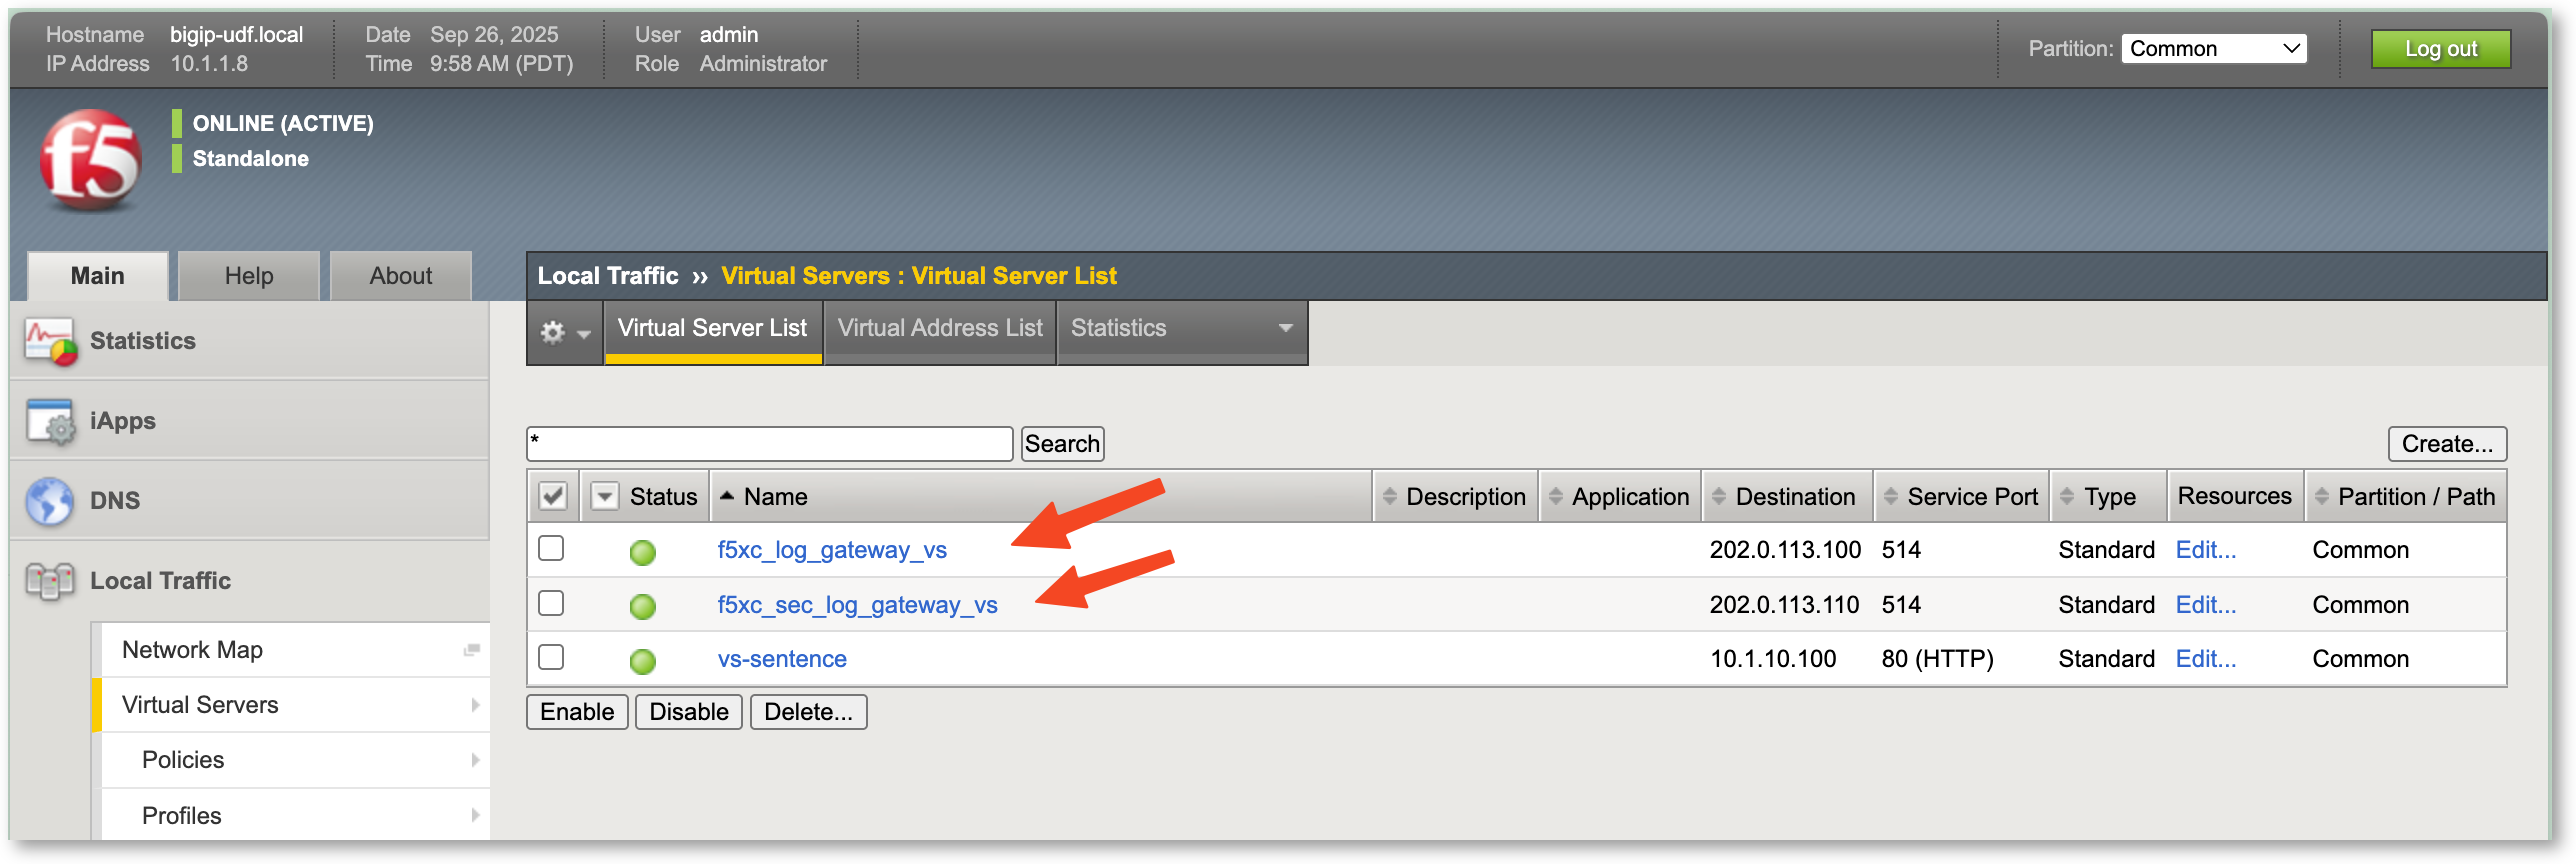
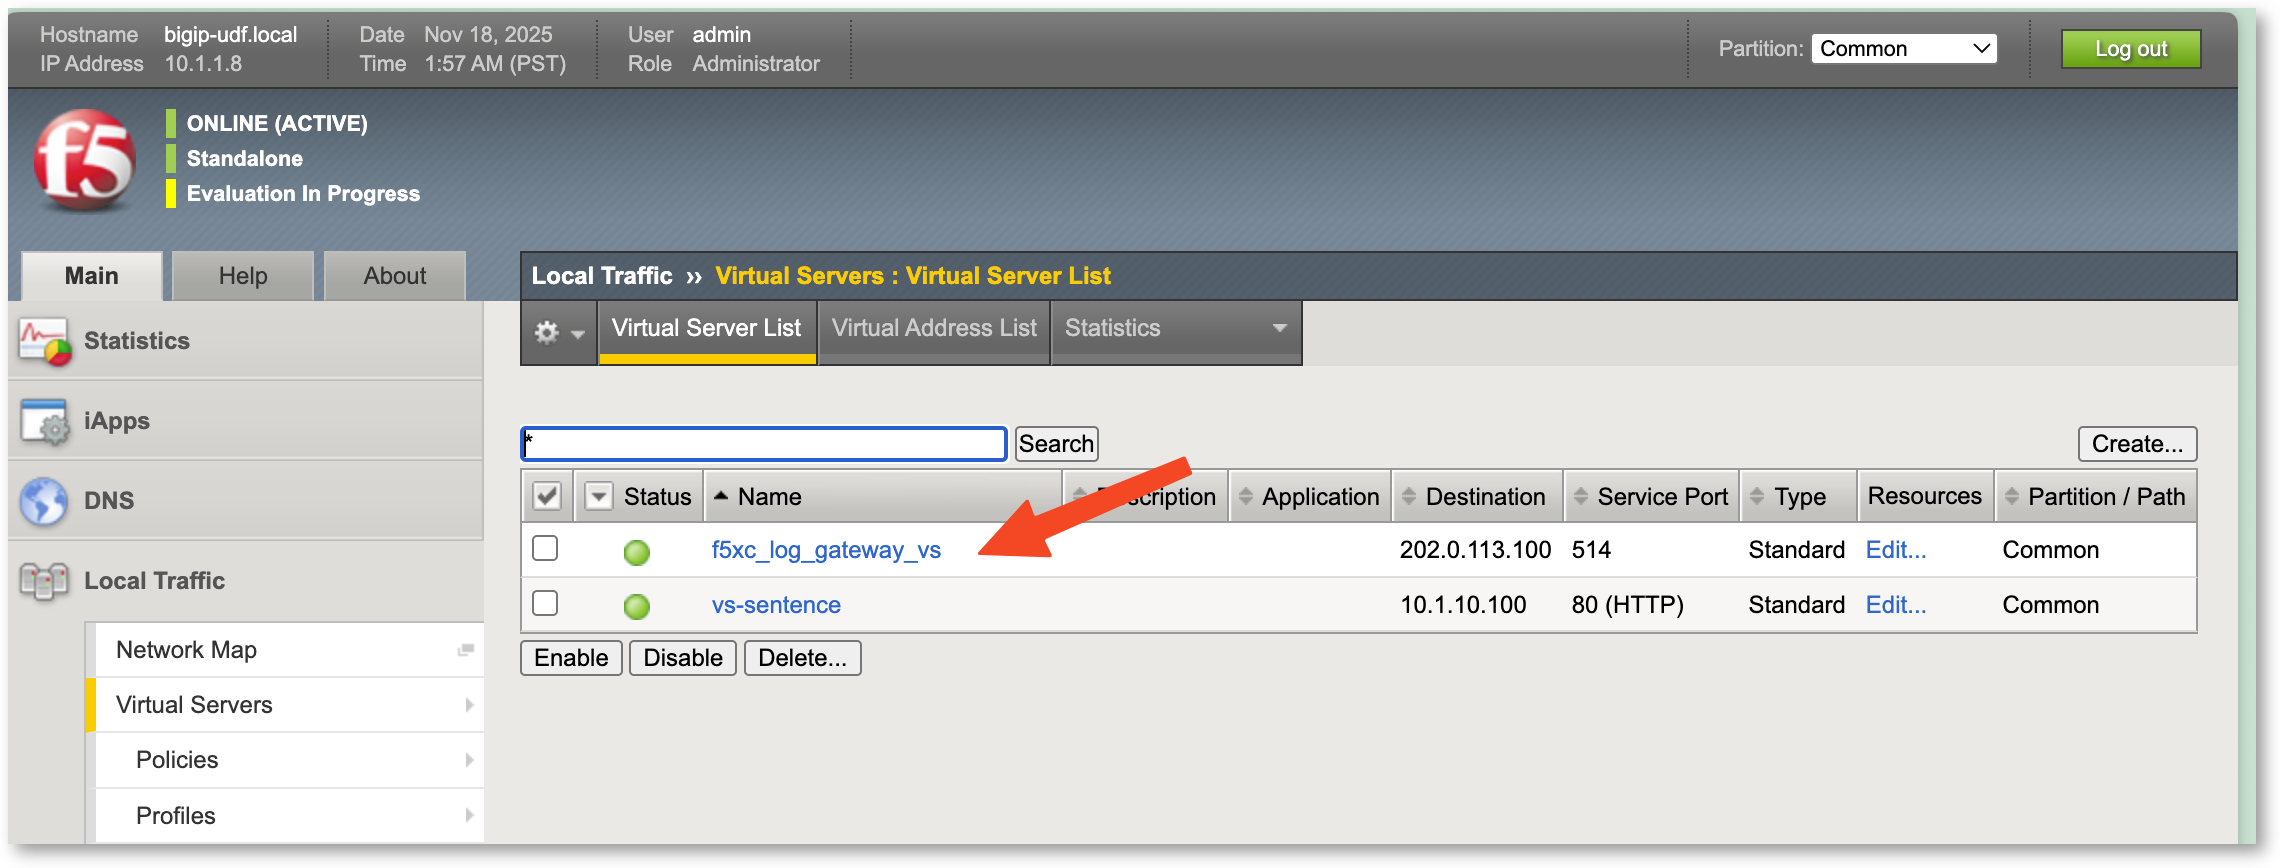
fix lab cbip

Changed region(s): [[0.0, 0.0, 0.9965, 0.9688], [0.0, 0.0312, 0.3737, 0.0938], [0.0, 0.125, 0.1868, 0.25]]

diff --git a/docs/class4/module2/lab5/lab5.rst b/docs/class4/module2/lab5/lab5.rst
@@ -99,13 +99,14 @@ Configure the service discovery so it can find the BIG-IP
    :align: left
 
 * Give a name to the BIG-IP such as ``bigip1``
-* Click Add Item under ``Classic BIG-IP Devices``
 * Configure with the BIG-IP settings
   
   * Management IP: ``10.1.20.8`` <- Self-IP address
+  * Management Port: ``443``
   * Admin username: ``admin``
-  * Admin password: 
-    * Select Clear Secret instead of Blindfold
+  * Admin password:
+
+    * Select ``Clear Secret`` instead of ``Blindfold``
     * Secret is: ``admin``
 
 * Apply
@@ -137,7 +138,7 @@ Click on ``Actions dots`` and ``Enable Visibility in All workspaces```
 .. image:: ../pictures/enable-visibility.png
    :align: left
 
-.. note:: At this moment, F5XC will configure the BIG-IP with some extra settings in order to send logs traffic to the CE. If you connect to the BIG-IP TMUI, you can see 2 new Virtual Servers. Those 2 VS collect logs and security insights.
+.. note:: At this moment, F5XC will configure the BIG-IP with some extra settings in order to send logs traffic to the CE. If you connect to the BIG-IP TMUI, you can see one new Virtual Server. This VS collects logs and security insights.
 
   .. image:: ../pictures/bigip-tmui.png
    :align: left
